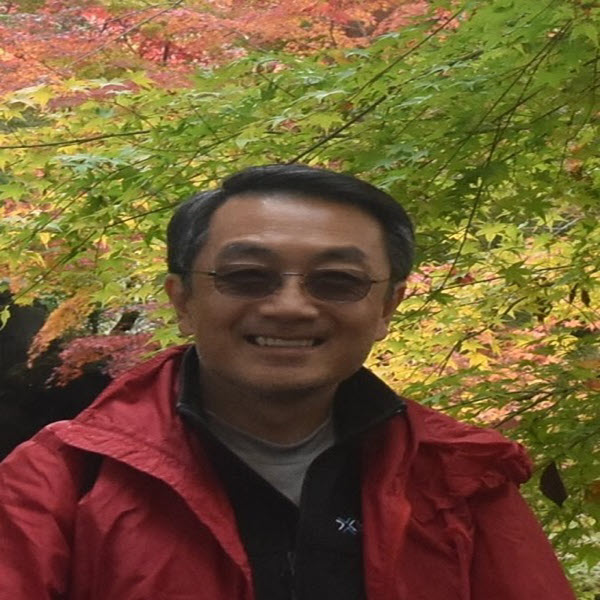
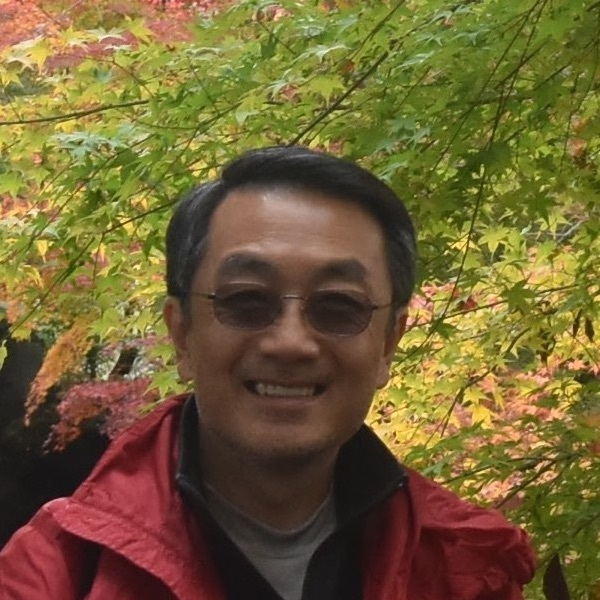
robert image size

diff --git a/index.html b/index.html
@@ -626,7 +626,7 @@
           <div class="col-lg-3 col-md-6 d-flex align-items-stretch" data-aos="fade-up" data-aos-delay="200">
             <div class="member">
               <div class="member-img">
-                <img src="assets/img/team/team-2b.jpg" class="img-fluid" alt="">
+                <img src="assets/img/team/team-2.jpg" class="img-fluid" alt="">
                 <div class="social">
                   <a href="https://www.linkedin.com/in/robertling/"><i class="bi bi-linkedin"></i></a>
                 </div>
